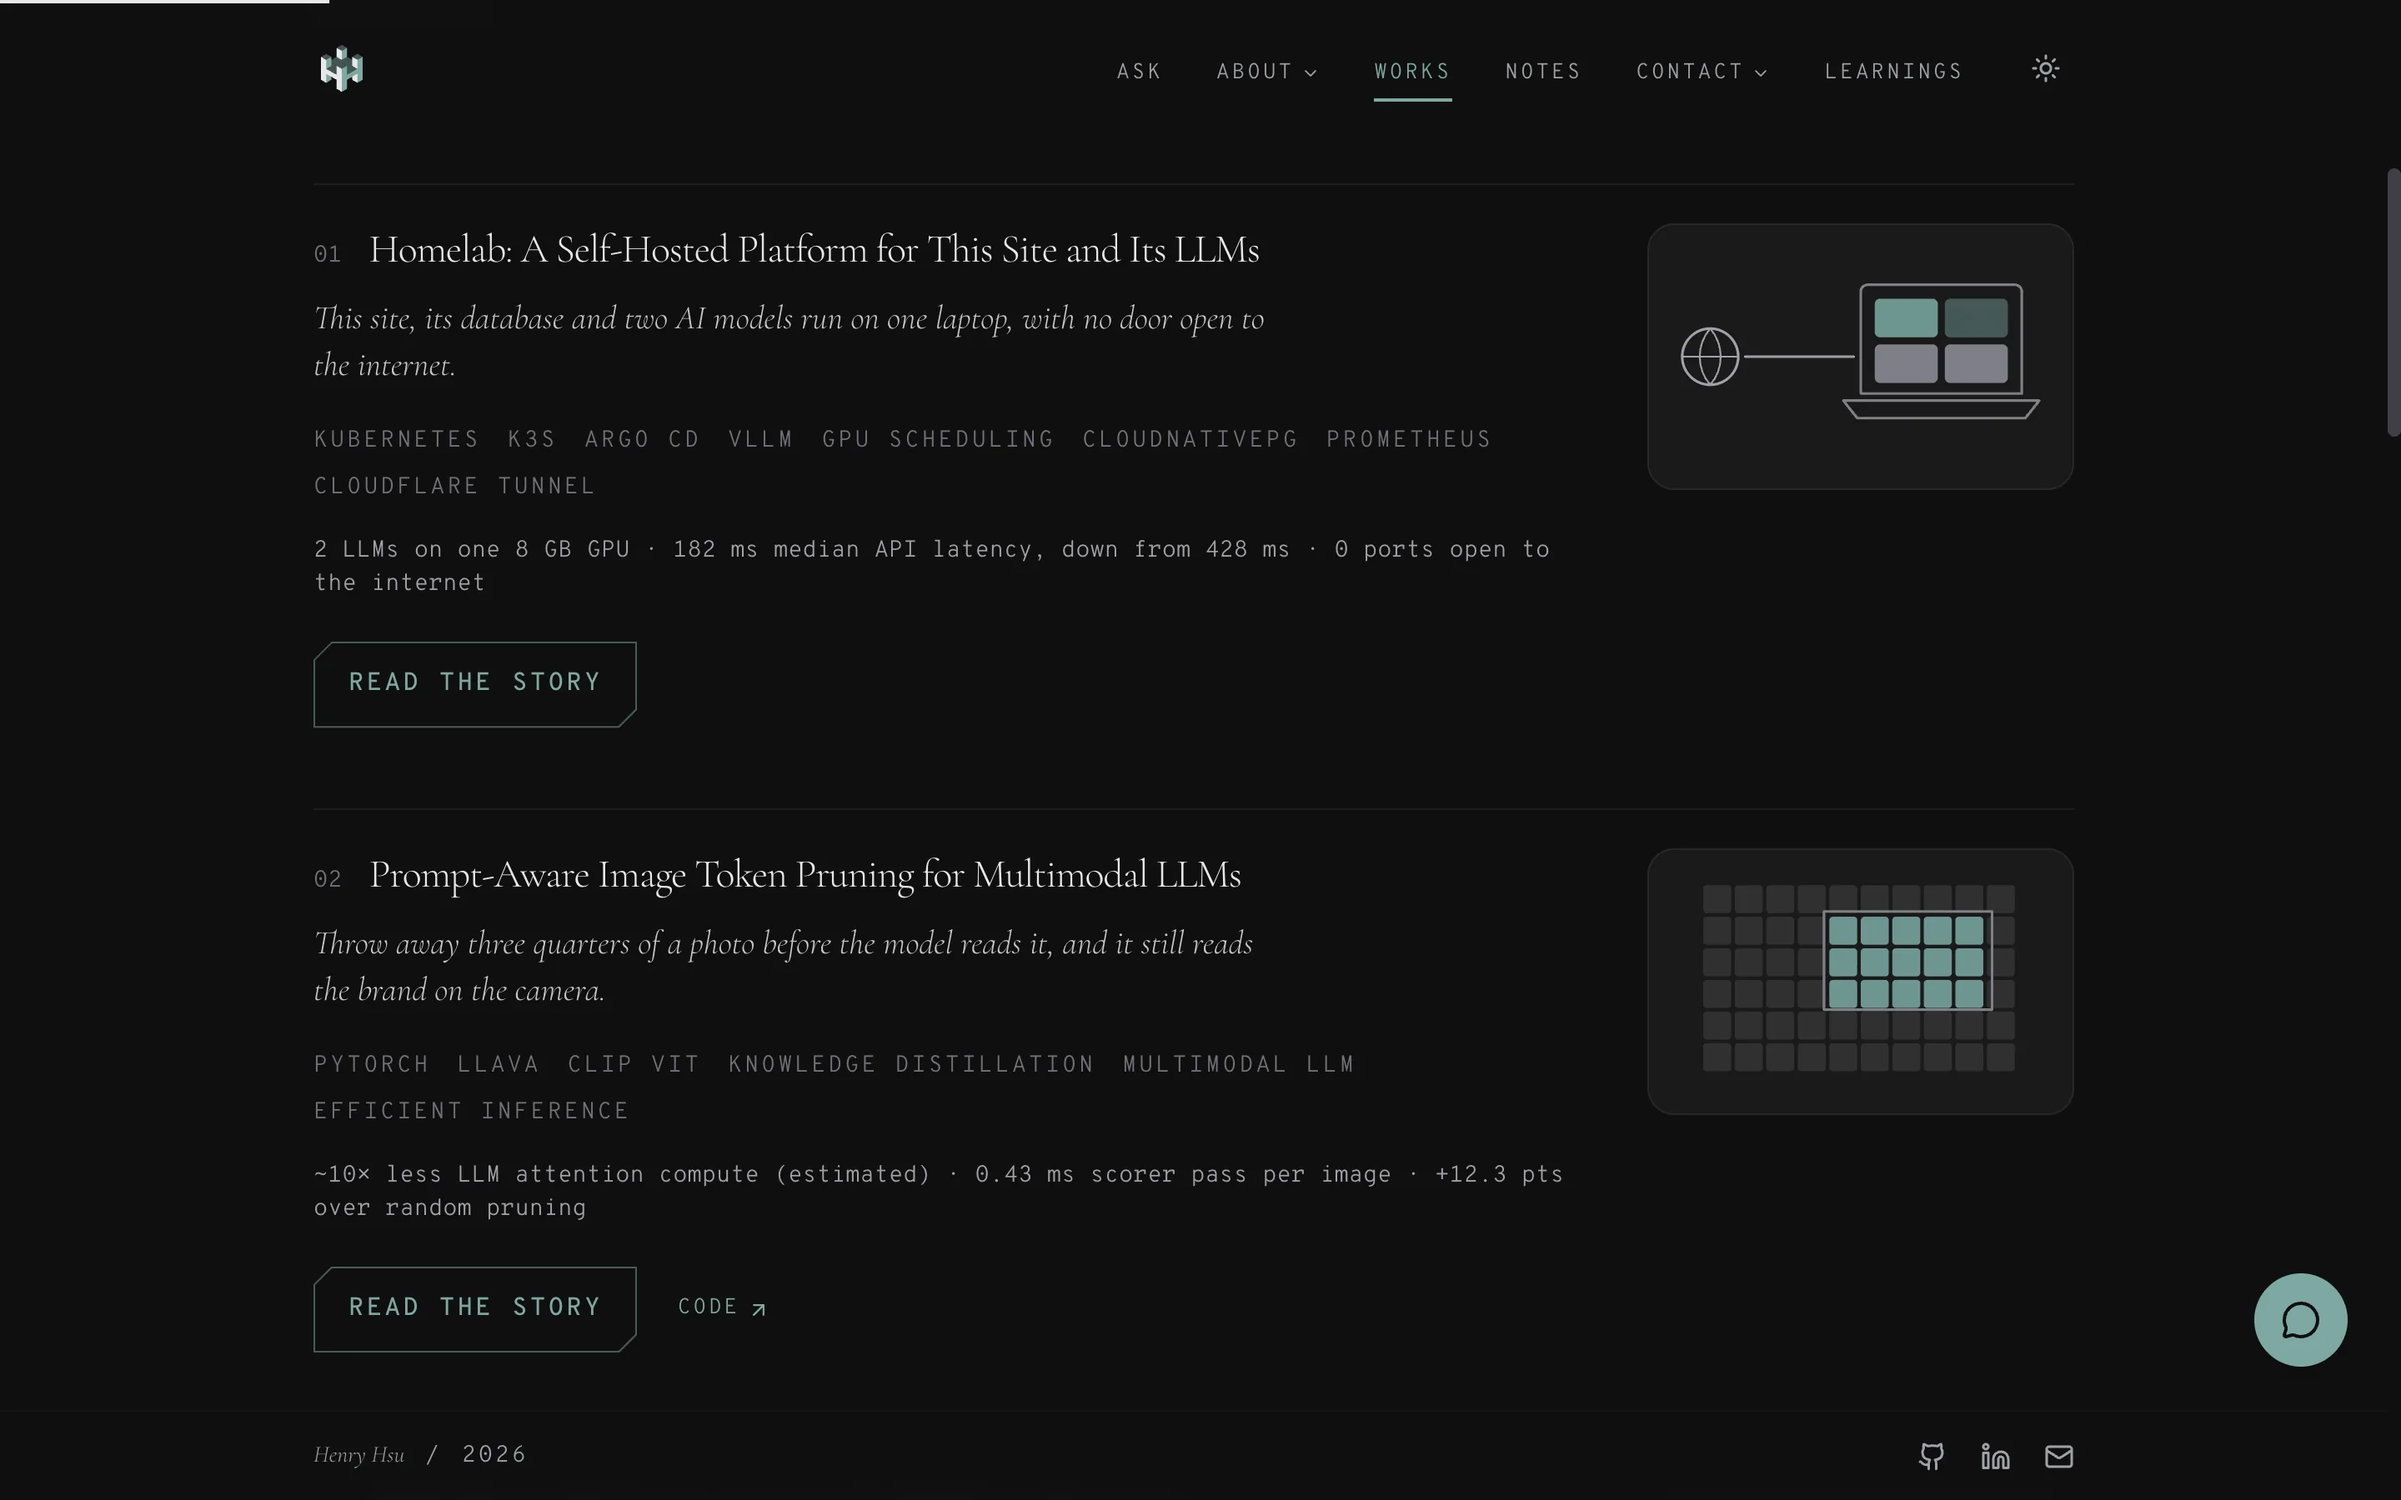
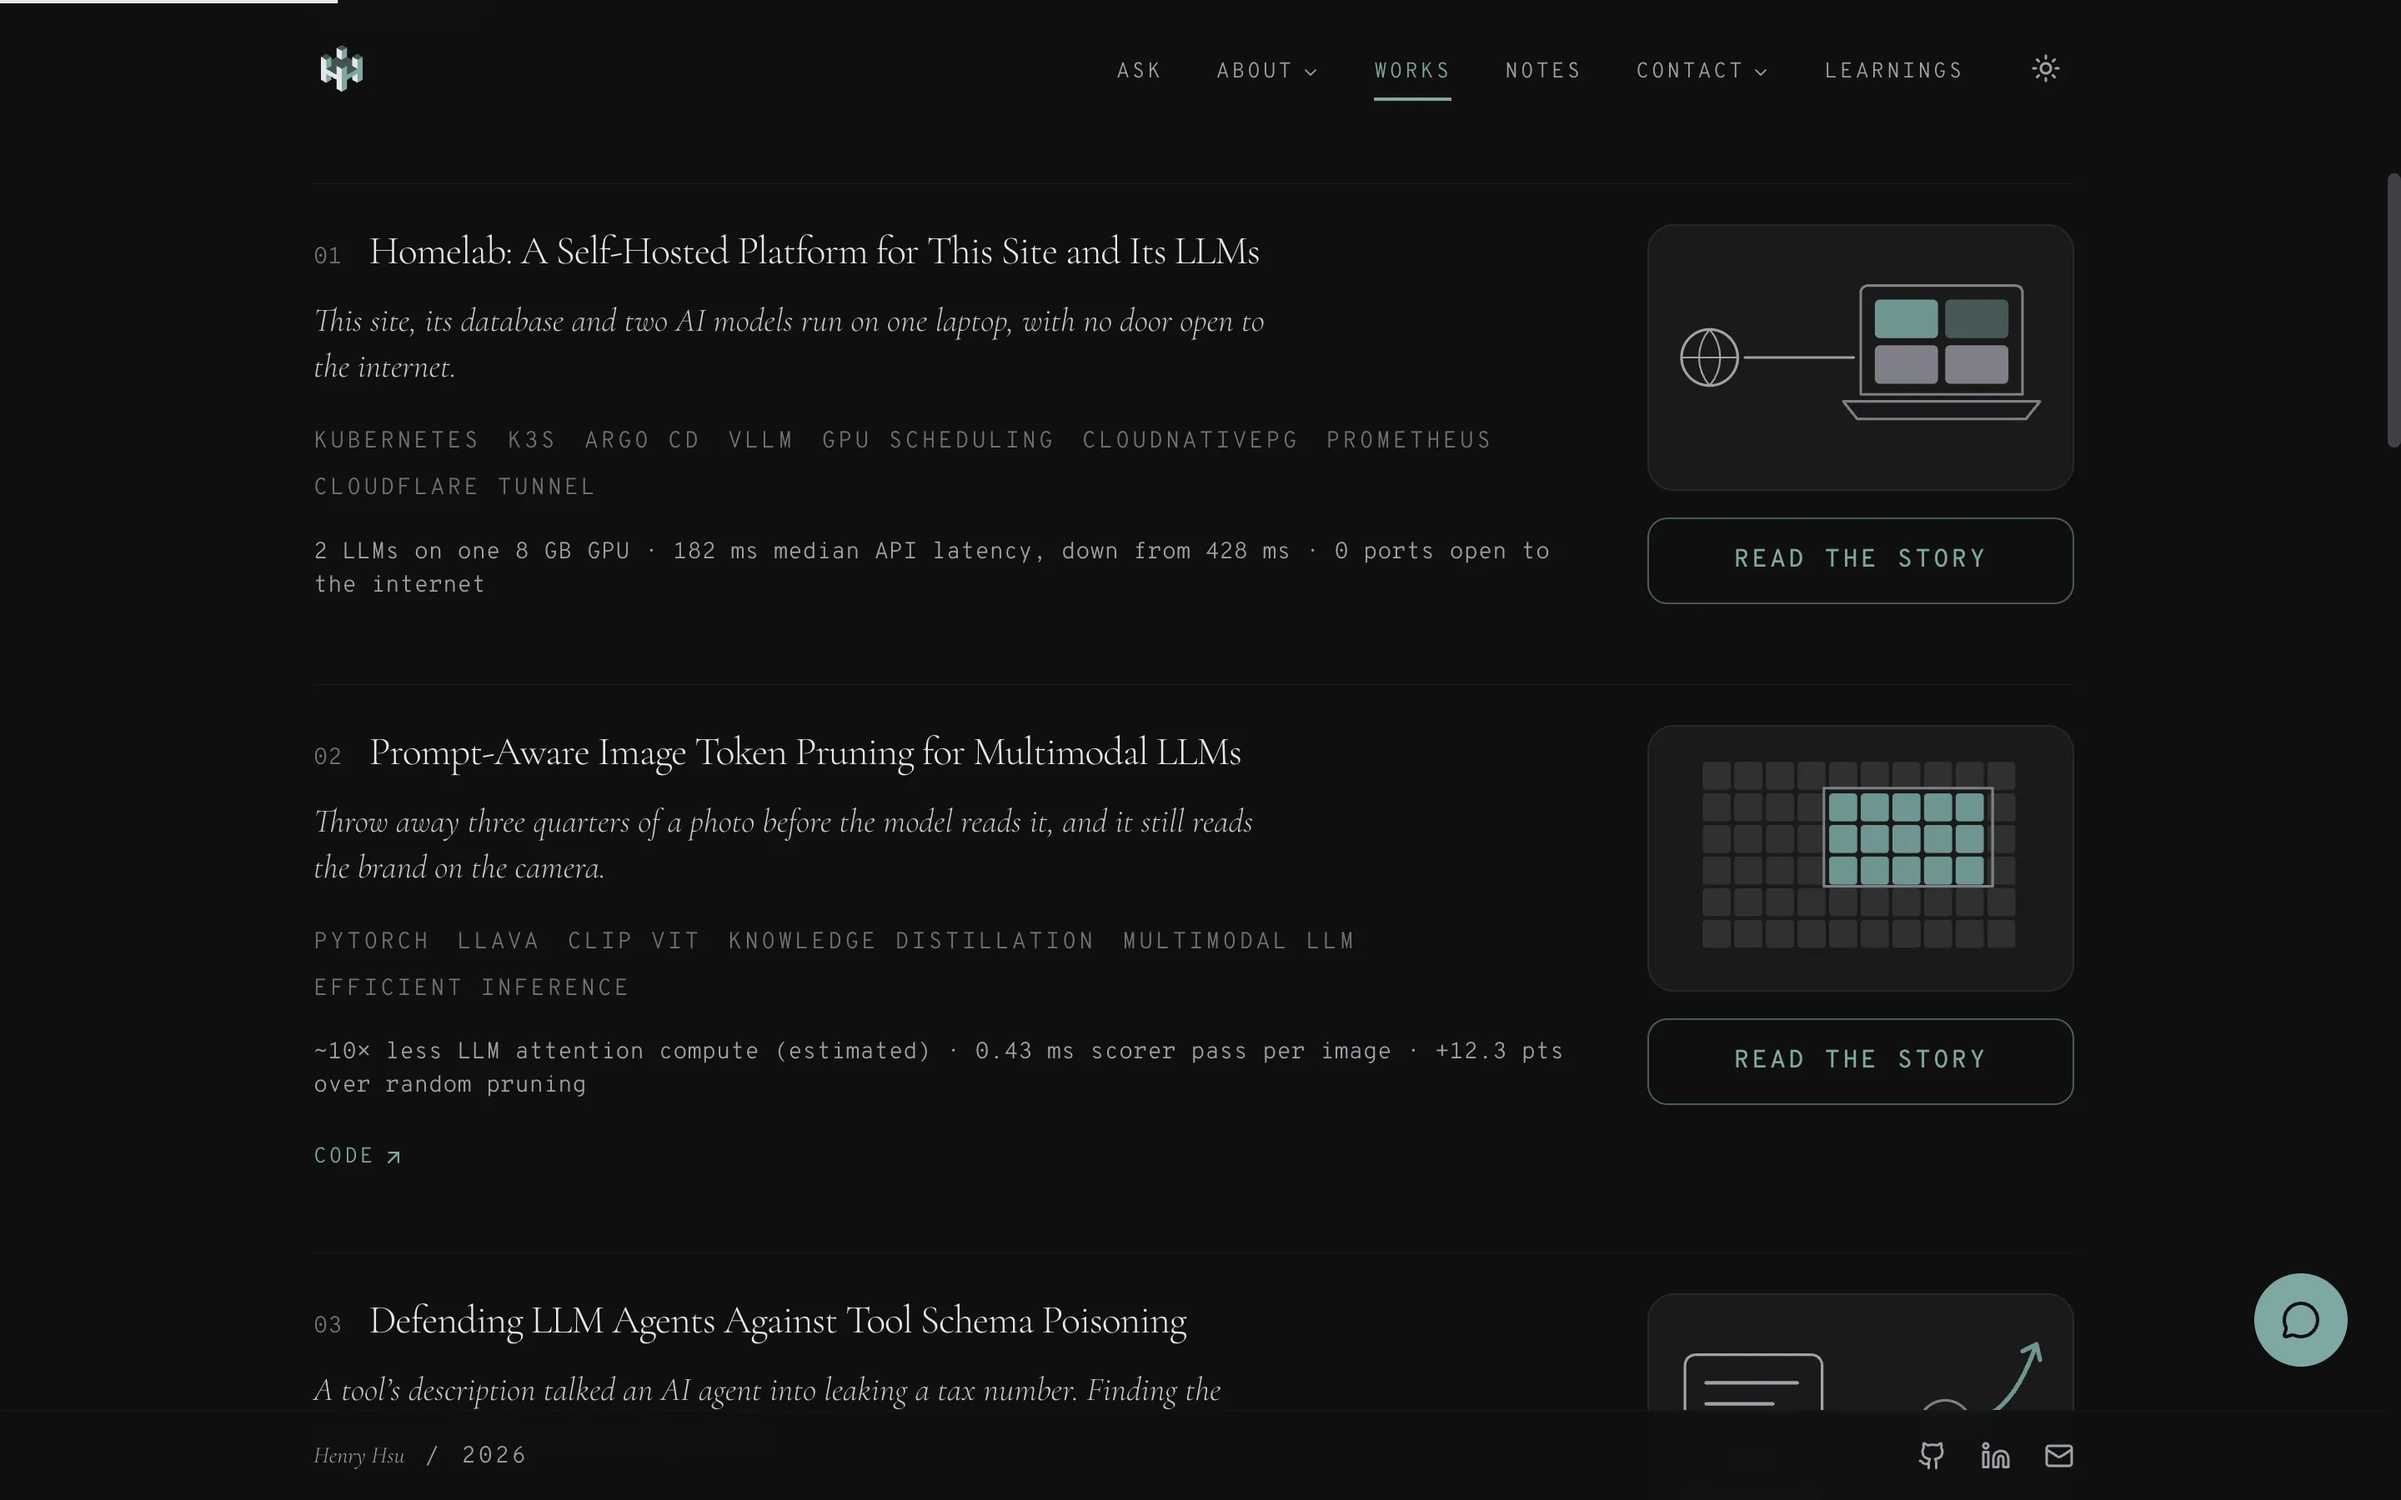
Lay out the README like the back end's and retake the works screenshot
The README now opens with the same home page screenshot as the back end's,
with the same intro, then the features, a second screenshot where the back
end has its diagram, a commented quick start and the docs table. The works
page screenshot is retaken: its story link is now rounded and under the
cover.

diff --git a/README.md b/README.md
@@ -12,22 +12,22 @@
 [![CI](https://github.com/yarikama/personal-website-front-end/actions/workflows/ci.yml/badge.svg)](https://github.com/yarikama/personal-website-front-end/actions/workflows/ci.yml)
 [![Website](https://img.shields.io/website?url=https%3A%2F%2Fwww.yarikama.com&label=yarikama.com&up_message=online&down_message=down)](https://www.yarikama.com)
 [![Deployed on Vercel](https://img.shields.io/badge/deployed%20on-Vercel-000000?logo=vercel&logoColor=white)](https://vercel.com)
-[![Last commit](https://img.shields.io/github/last-commit/yarikama/personal-website-front-end)](https://github.com/yarikama/personal-website-front-end/commits/main)
+[![Node 22](https://img.shields.io/badge/node-22-5FA04E?logo=nodedotjs&logoColor=white)](https://nodejs.org)
 <br>
 [![React 19](https://img.shields.io/badge/React-19-61DAFB?logo=react&logoColor=white)](https://react.dev)
 [![TypeScript 6](https://img.shields.io/badge/TypeScript-6-3178C6?logo=typescript&logoColor=white)](https://www.typescriptlang.org)
 [![Vite 8](https://img.shields.io/badge/Vite-8-646CFF?logo=vite&logoColor=white)](https://vite.dev)
 [![Tailwind CSS 4](https://img.shields.io/badge/Tailwind%20CSS-4-06B6D4?logo=tailwindcss&logoColor=white)](https://tailwindcss.com)
 [![Tested with Vitest](https://img.shields.io/badge/tested%20with-Vitest-6E9F18?logo=vitest&logoColor=white)](https://vitest.dev)
-[![Node 22](https://img.shields.io/badge/node-22-5FA04E?logo=nodedotjs&logoColor=white)](https://nodejs.org)
+[![Last commit](https://img.shields.io/github/last-commit/yarikama/personal-website-front-end)](https://github.com/yarikama/personal-website-front-end/commits/main)
 
 </div>
 
-The front end of [yarikama.com](https://www.yarikama.com), Henry Hsu's personal website: projects with their case studies, technical notes, a 3D graph of what I've learned, and a chat that answers questions about all of it, streamed from a language model I host at home.
+The front end of [yarikama.com](https://www.yarikama.com), Henry Hsu's personal website. It shows the projects and notes, streams answers to visitors' questions about them from a self-hosted language model, and gives the author an editor with inline autocomplete from a second model.
 
 It is a single-page app built with React 19, TypeScript, Vite and Tailwind CSS v4, and deployed on Vercel. The API, database and models live in [personal-website-back-end](https://github.com/yarikama/personal-website-back-end).
 
-[![The works page of yarikama.com in dark mode: each project with its title, a one-line hook, tags, results and an animated cover drawing](docs/works.webp)](https://www.yarikama.com/works)
+[![The home page of yarikama.com: name, tagline and awards beside a photo, with the ask chat button in the corner](docs/home.webp)](https://www.yarikama.com)
 
 ## What it does
 
@@ -38,19 +38,19 @@ It is a single-page app built with React 19, TypeScript, Vite and Tailwind CSS v
 - **Talks**: slide decks on a 16:9 canvas, with a presenter window that stays in step.
 - **Admin**: editors for notes, projects and categories, inline autocomplete from a second self-hosted model, and the site's visitors, questions and messages.
 
-The full list is in [Features](docs/features.md).
+[![The works page of yarikama.com: each project with its title, a one-line hook, tags and results beside its animated cover drawing, with a link to its story under the cover](docs/works.webp)](https://www.yarikama.com/works)
 
 ## Quick start
 
 Requires Node.js 22.
 
 ```bash
-npm ci
-cp .env.example .env
-npm run dev                 # http://localhost:5173
+npm ci                # dependencies
+cp .env.example .env  # points the site at a local back end on port 8080
+npm run dev           # the site with hot reload on http://localhost:5173
 ```
 
-`VITE_API_BASE_URL` in `.env` picks the API: a local backend by default, or `https://api.yarikama.com/api/v1` for production data. More in [Development](docs/development.md).
+To use production data instead, set `VITE_API_BASE_URL` in `.env` to `https://api.yarikama.com/api/v1`. More in [Development](docs/development.md).
 
 ## Documentation
 
